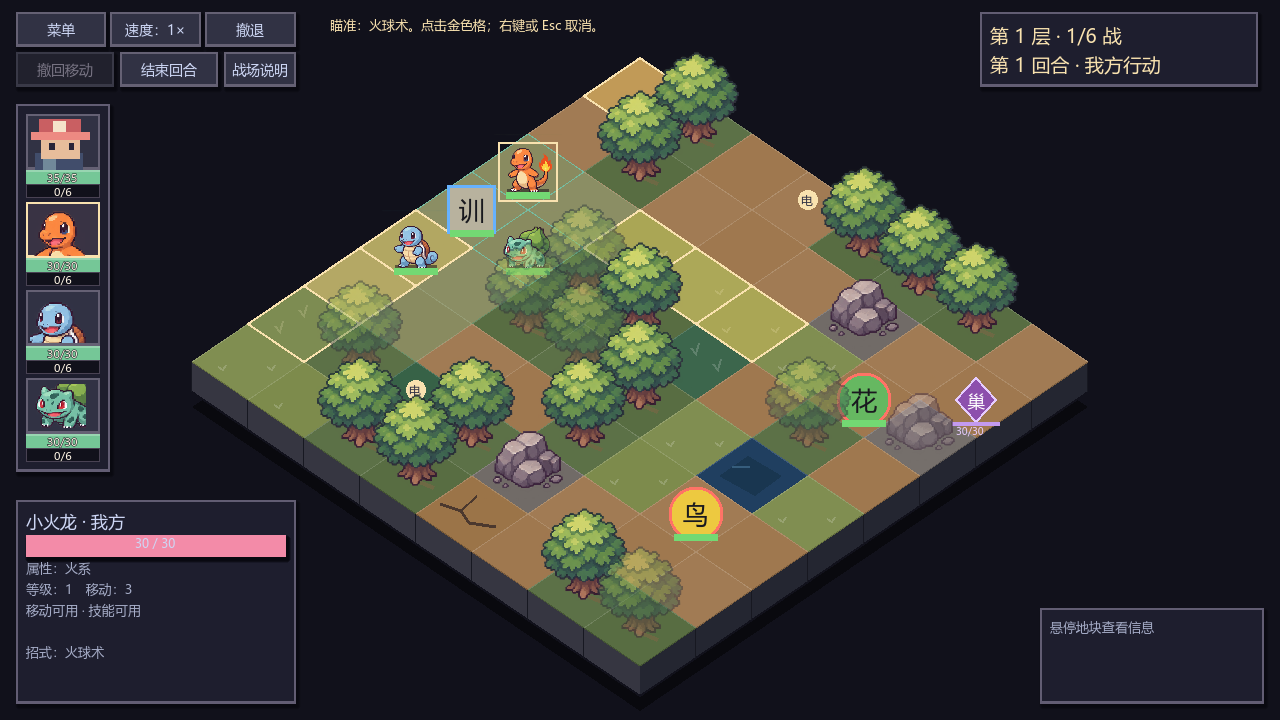
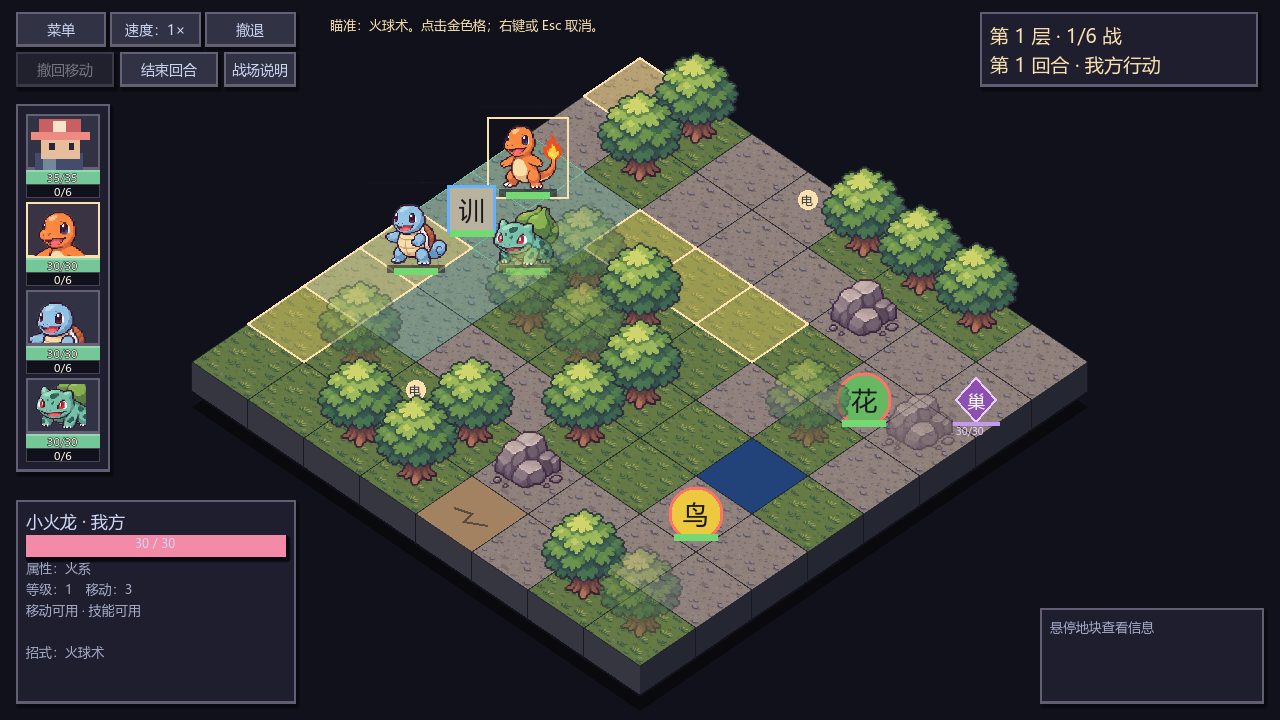
art: restore original terrain textures and proportional Pokemon sprite size

diff --git a/sample/ISOMETRIC.md b/sample/ISOMETRIC.md
@@ -73,3 +73,14 @@
 - 全地形对照图：sample/terrain-catalogue.png；截图脚本sample/capture_terrain.gd。
 - 战斗实机图：sample/battle-isometric.png。放大的树木/岩石、头部头像、单位旁行动菜单保留。
 - 本轮验证：专项406检查点、界面流程150检查点通过。对照图与战斗图渲染无脚本错误。
+
+## 按附图恢复第一版地面与角色占格比例（2026-11-11）
+
+用户明确：第一版只指地面材质和宝可梦图像比例，其他调整保留。
+
+- 地面恢复a350c91中的原图集投影方式与底色；取消当前战斗画面的简洁色块材质调用。
+- 格宽从第一版80增至当前112，宝可梦图像框从68×68增至96×96，保持约0.85的图像框/格宽比例，底部对齐保持稳定。
+- 保留当前放大的树木/岩石、高岩山、四角HUD、头部头像队伍栏和单位旁行动菜单。
+- 更新前景遮挡检测尺寸，与放大角色匹配。
+- simple_terrain.gd与terrain-catalogue.png留作上一设计备份；该对照图不代表当前地面。
+- 本轮验证：专项391项、界面流程150项通过；实机渲染无脚本错误。
